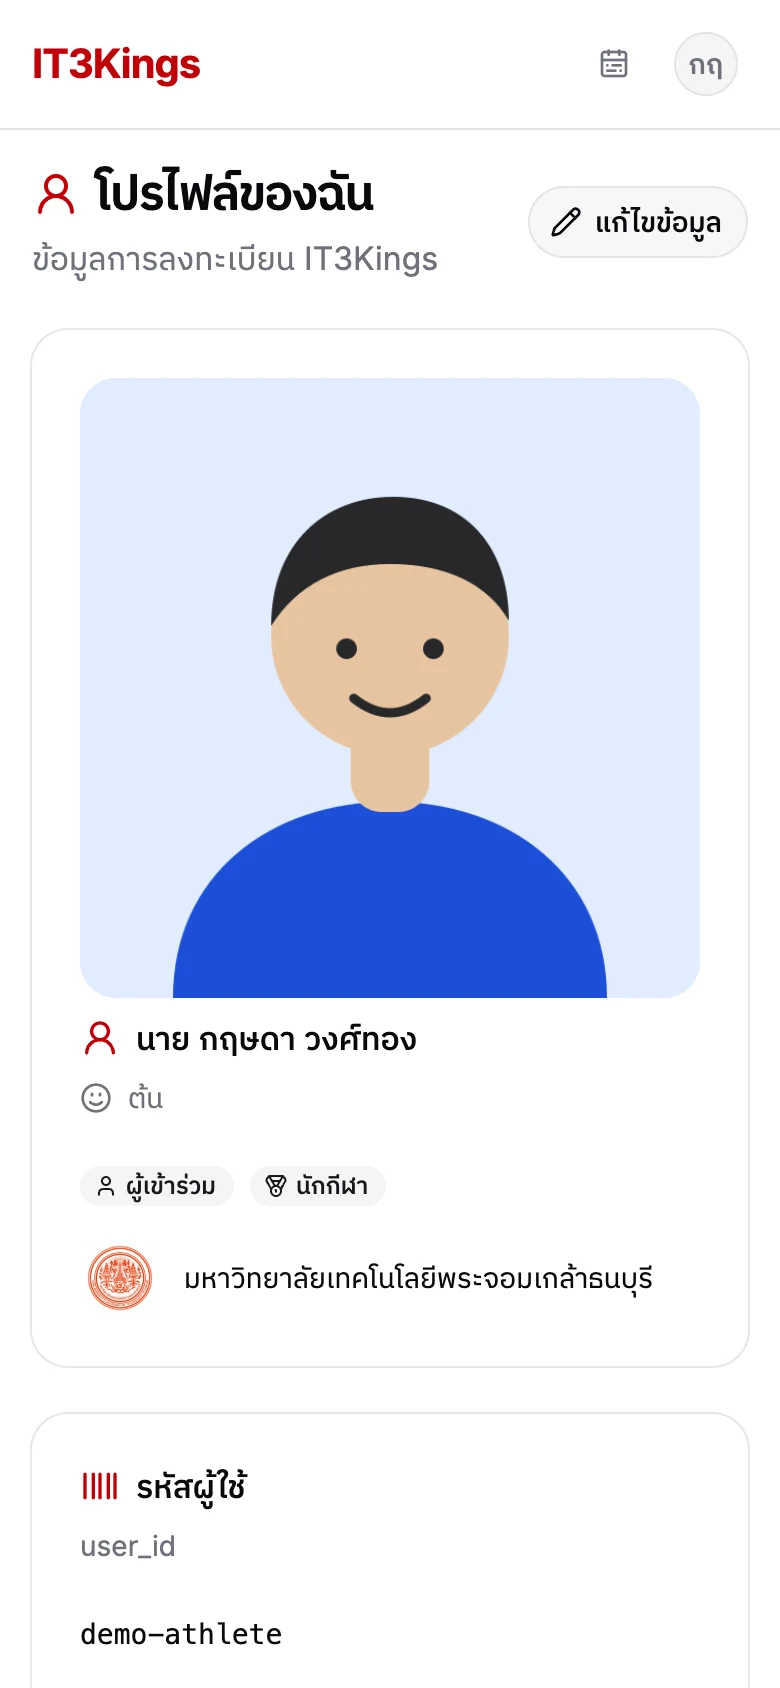
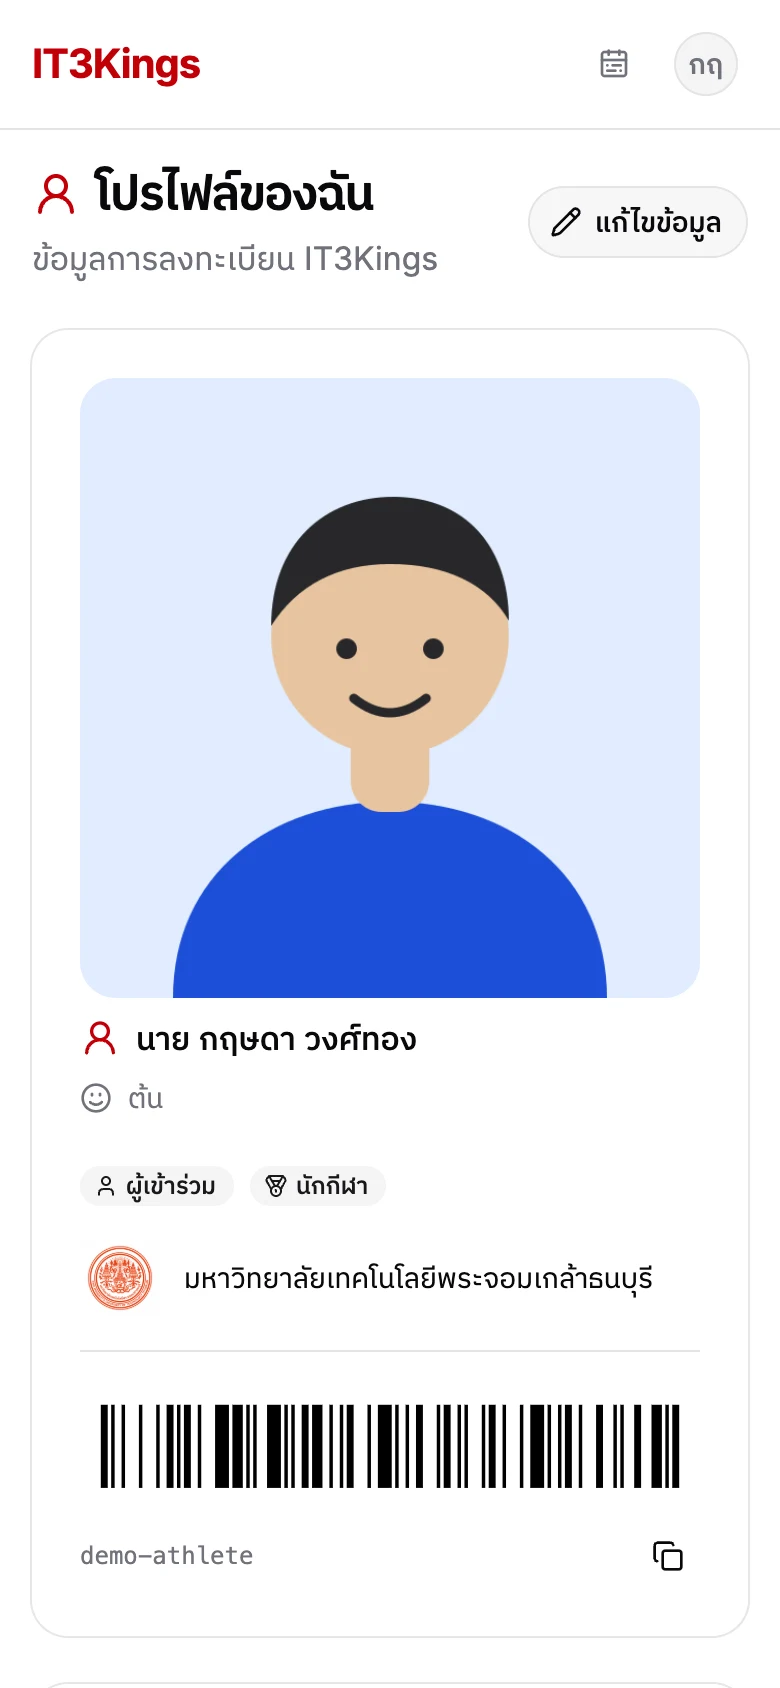
docs(participants): add an athlete guide to match check-in
A page of its own for athletes: where the six-digit sport check-in code is,
the check-in window, the kiosk steps, what each refusal means, esports over
Discord and forfeits for short sides. Linked from the check-in, sports,
profile, results and getting-started pages, with a new shot of the code card.

Changed region(s): [[0.0923, 0.8318, 0.8923, 0.9242], [0.2154, 0.955, 0.3692, 0.9858], [0.0923, 0.955, 0.1846, 0.9858]]

diff --git a/apps/docs/scripts/screenshots/shots.ts b/apps/docs/scripts/screenshots/shots.ts
@@ -69,6 +69,13 @@ export const SHOTS: Shot[] = [
   { file: "athlete/sports", as: "athlete", path: "/sports", mobile: true },
   { file: "athlete/sports-register", as: "athlete", path: "/sports", mobile: true, act: click(/^สมัครกีฬา$/) },
   { file: "athlete/me", as: "athlete", path: "/me", mobile: true },
+  { file: "athlete/checkin-code", as: "athlete", path: "/me", mobile: true, desktop: false, act: async (page) => {
+    // Card title just under the sticky header, so the photo is not blurred behind it.
+    const top = await page.getByText("รหัสเช็คอินกีฬา", { exact: true }).first()
+      .evaluate((el) => el.getBoundingClientRect().top + window.scrollY);
+    await page.evaluate((y) => window.scrollTo(0, y - 140), top);
+    await page.waitForTimeout(800);
+  } },
 
   // Other departments: Art
   { file: "art-staff/sidebar", as: "artStaff", path: "/staff/dashboard", sidebar: true },
